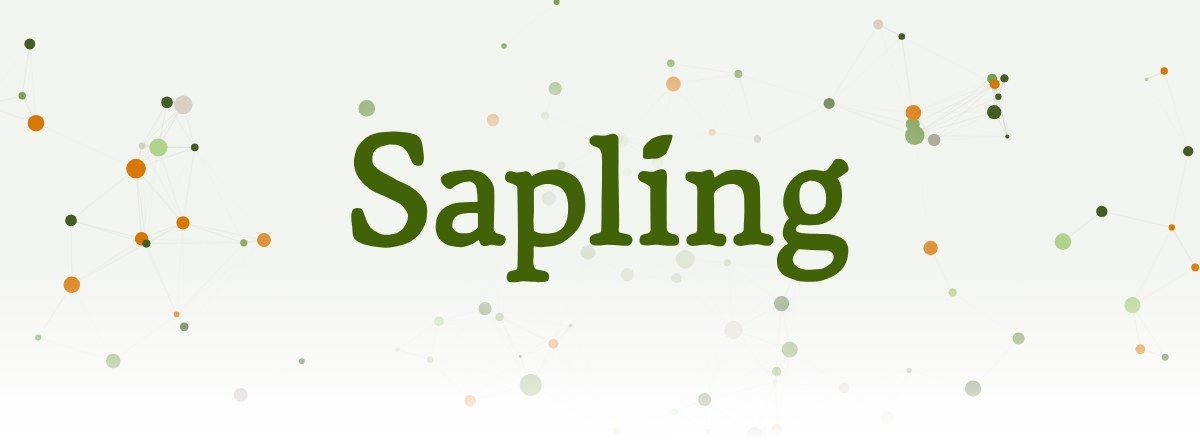
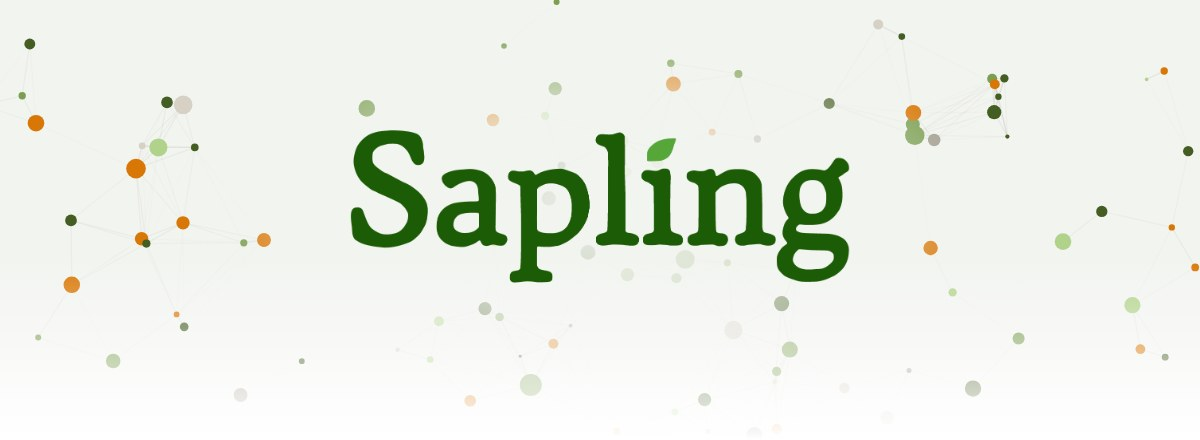
feat(brand): one wordmark everywhere, and it holds its place into onboarding
The jack_h.v2 mark onboarding already used becomes the app's single
wordmark: public/sapling-wordmark.png, served through
SaplingWordmark.tsx (landing navbar and hero, sign-in, beta and closing
dialogs, side nav, top nav, companion) and imported by onboarding for
its top-left mark and the outro, so there is one file and one constant
behind every logo. The email header and og.png are rebuilt from it.

Over the landing, onboarding's mark now sits exactly where the landing
navbar drew it — same asset, same box, no UI-scale zoom — so Get
Started's zoom no longer moves or resizes it: it stays put through the
fade, the intro, the graph zoom and every screen. The 640px step-down
follows the navbar's own.

Changed region(s): [[0.2775, 0.2955, 0.7092, 0.65]]

diff --git a/frontend/src/components/onboarding/onboarding.css b/frontend/src/components/onboarding/onboarding.css
@@ -83,6 +83,14 @@
 .ob-logo { position: absolute; top: 26px; left: 32px; zoom: var(--uiz); z-index: 5; }
 .ob-logo img { height: 30px; width: auto; display: block; }
 
+/* Over the landing, the mark stays exactly where the landing navbar drew it —
+ * same file, same box, no UI-scale zoom — so it holds its place while the
+ * landing fades out, through the intro and the graph's zoom, and across every
+ * onboarding screen. Mirrors `.sapling-nav`'s padding and `.ld-nav-mark`'s
+ * width (Navbar.tsx, and the 640px override in globals.css). */
+.ob-root--takeover .ob-logo { top: 20px; left: max(4.2vw, 22px); zoom: 1; }
+.ob-root--takeover .ob-logo img { height: auto; width: 132px; }
+
 .ob-content {
   position: absolute; inset: 0; z-index: 3;
   display: flex; flex-direction: column;
@@ -379,6 +387,13 @@ button.ob-school:hover { transform: translateY(-2px); }
 .ob-welcome span { white-space: nowrap; font: 600 clamp(22px, 3.2vw, 44px)/1 'Gummi', sans-serif; letter-spacing: -0.01em; text-shadow: var(--ob-tsh); }
 .ob-welcome img { height: clamp(80px, 12vw, 170px); width: auto; max-width: 90vw; display: block; }
 .ob-whiteout { position: absolute; inset: 0; z-index: 92; background: #FFFFFF; transition: opacity 900ms cubic-bezier(0.4, 0, 0.2, 1); }
+
+/* The landing's navbar steps the mark down at 640px; the takeover follows it
+ * so the hand-off stays seamless on a phone too. */
+@media (max-width: 640px) {
+  .ob-root--takeover .ob-logo { top: 14px; left: 18px; }
+  .ob-root--takeover .ob-logo img { width: 108px; }
+}
 
 /* ── Small screens ────────────────────────────────────────────── */
 @media (max-width: 720px) {

diff --git a/frontend/src/components/screens/Onboarding.tsx b/frontend/src/components/screens/Onboarding.tsx
@@ -26,6 +26,7 @@ import {
 import type { UserSettings } from "@/lib/types";
 import { onboardingRedirect } from "@/lib/localSeed";
 import SignInModal from "@/components/marketing/SignInModal";
+import { SAPLING_WORDMARK_SRC } from "@/components/SaplingWordmark";
 import { statusOf } from "@/lib/errorMessage";
 import { OnboardingGraph, type GraphPhase, type GraphZoom } from "@/components/onboarding/OnboardingGraph";
 import { setGraphStage } from "@/components/onboarding/chapterLayer";
@@ -424,7 +425,7 @@ export function Onboarding({ takeover = false }: {
       <div className="ob-scrim" aria-hidden="true" style={{ opacity: phase === "idle" || (phase === "out" && zoom === "rest") ? 0 : 1 }} />
 
       <div className="ob-logo">
-        <img src="/onboarding/sapling-logo.png" alt="Sapling" />
+        <img src={SAPLING_WORDMARK_SRC} alt="Sapling" />
       </div>
 
       <div
@@ -664,7 +665,7 @@ export function Onboarding({ takeover = false }: {
           <div className="ob-moment-glow" />
           <p className="ob-welcome">
             <span>Welcome to</span>
-            <img src="/onboarding/sapling-logo.png" alt="Sapling" />
+            <img src={SAPLING_WORDMARK_SRC} alt="Sapling" />
           </p>
         </div>
       )}

diff --git a/frontend/src/components/SaplingWordmark.tsx b/frontend/src/components/SaplingWordmark.tsx
@@ -1,10 +1,12 @@
 import React from "react";
 
-export const SAPLING_WORDMARK_SRC = "/design/sapling/originals/logo-letters.svg";
+/** The wordmark (jack_h.v2): one raster everywhere, so the landing, the app
+ *  chrome and onboarding all show the same mark. */
+export const SAPLING_WORDMARK_SRC = "/sapling-wordmark.png";
 
-export const SAPLING_WORDMARK_LIGHT_SRC = "/design/sapling/originals/logo-letters.svg";
+export const SAPLING_WORDMARK_LIGHT_SRC = "/sapling-wordmark.png";
 
-const ASPECT = 395.02 / 1294.89;
+const ASPECT = 384 / 1255;
 
 export function SaplingWordmark({
   width,
@@ -20,7 +22,7 @@ export function SaplingWordmark({
   className?: string;
 }) {
   return (
-    // eslint-disable-next-line @next/next/no-img-element -- a static vector; next/image adds nothing for SVG
+    // eslint-disable-next-line @next/next/no-img-element -- a static asset sized by the caller
     <img
       src={tone === "light" ? SAPLING_WORDMARK_LIGHT_SRC : SAPLING_WORDMARK_SRC}
       alt={decorative ? "" : "Sapling"}
